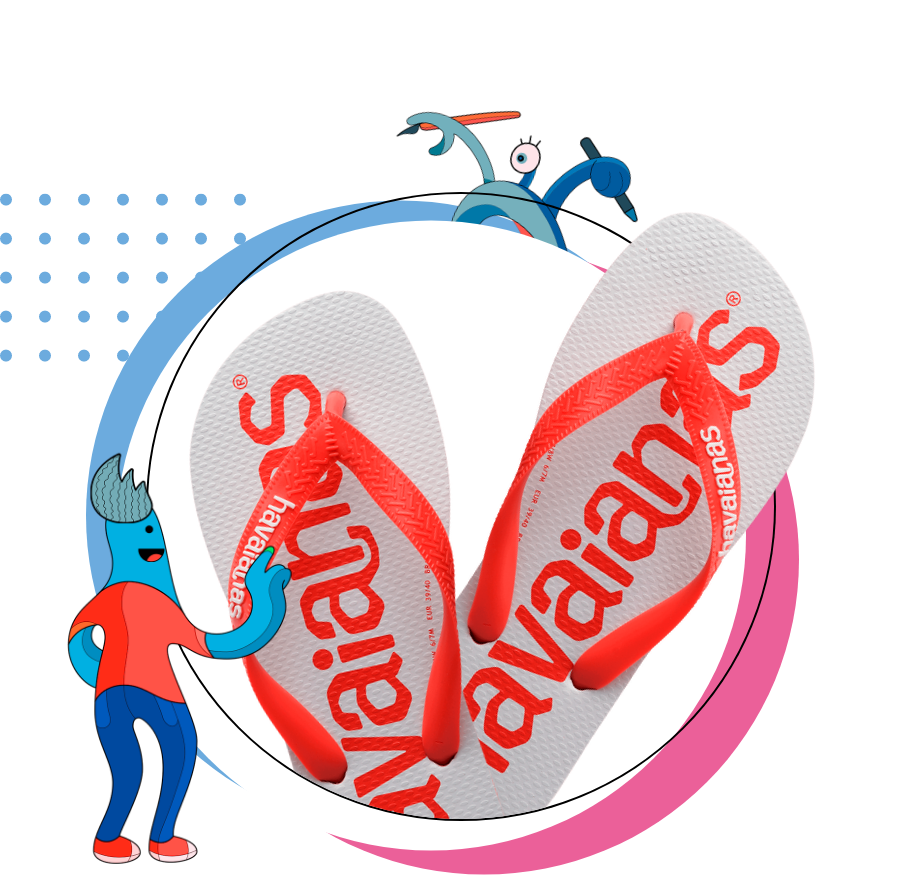
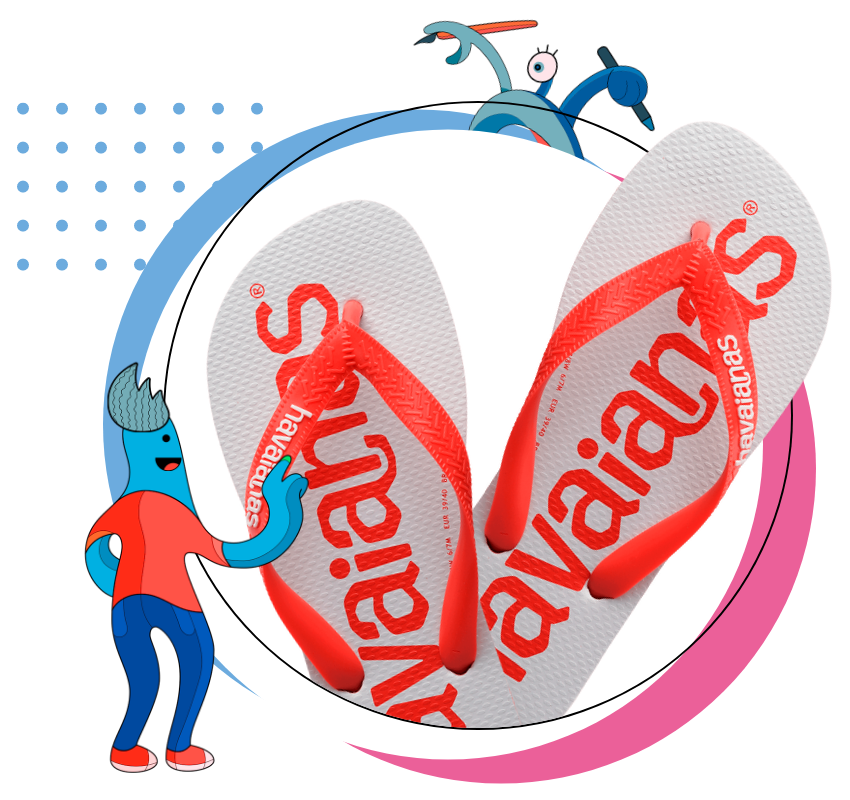
1800+ feito ok por enquanto

diff --git a/src/styles/index.module.css b/src/styles/index.module.css
@@ -7685,8 +7685,10 @@
 }
 
 .ceaNewsBullet {
-  top: 18px;
-  left: -15px;
+  top: 25px;
+  left: -25px;
+  width: 15px;
+  height: 15px;
 }
 
 .havaianasNewsTitle {
@@ -7704,8 +7706,10 @@
 }
 
 .havaianasNewsBullet {
-  top: 18px;
-  left: -15px;
+  top: 25px;
+  left: -25px;
+  width: 15px;
+  height: 15px;
 }
 
 .play {
@@ -9576,61 +9580,125 @@
   margin: -3px 50px 0 0;
 }
 
-.carPicture {
-  background-image: url(../assets/desktop_l/tiggo.png);
-  width: 1000px;
-  height: 986px;
-  margin: -100px 0 0 -930px;
+.ceaPicture {
+  background-image: url(../assets/desktop_l/cea.png);
+  width: 850px;
+  height: 771px;
+  margin: 0px 0 20px -900px;
 }
 
-.tagText {
+.havaianasPicture {
+  background-image: url(../assets/desktop_l/havaianas.png);
+  width: 850px;
+  height: 800px;
+  margin: -20px 0 20px -934px;
+}
+
+.ceaTagText {
+  font-family: PoppinsBold;
   font-size: 20px;
   line-height: 30px;
-  left: 0px;
-  top: 0px;
   position: relative;
-  margin: -820px 0 0 160px;
-  font-size: 20px;
-  line-height: 30px;
+  margin: -700px 0 0 280px;
+  z-index: 1;
 }
 
-.tagLine {
-  width: 78px;
+.ceaTagLine {
+  background-color: #6CABDE;
+  width: 220px;
   height: 10px;
-  left: 0px;
-  top: 0px;
   position: relative;
-  margin: -13px 0 0 155px;
+  margin: -11px 0 0 270px;
+  z-index: 0;
 }
 
-.newsTitle {
-  width: 790px;
-  margin: -750px 0 0 920px;
-  font-size: 60px;
+.havaianasTagText {
+  font-family: PoppinsBold;
+  font-size: 20px;
+  line-height: 30px;
+  position: relative;
+  margin: -709px 0 0 345px;
+  z-index: 1;
+}
+
+.havaianasTagLine {
+  background-color: #6CABDE;
+  width: 280px;
+  height: 10px;
+  position: relative;
+  margin: -11px 0 0 335px;
+  z-index: 0;
+}
+
+.ceaCarouselBullets {
+  width: 60px;
+  height: 20px;
+  display: flex;
+  justify-content: space-between;
+  margin: 70px 0 50px 140px;
+}
+
+.havaianasCarouselBullets {
+  width: 60px;
+  height: 20px;
+  display: flex;
+  justify-content: space-between;
+  margin: 70px 0 49px 140px;
+}
+
+.blackBullet {
+  background-image: url(../assets/mobile/bulletblack.png);
+  width: 20px;
+  height: 20px;
+}
+
+.blueBullet {
+  background-image: url(../assets/mobile/bulletblue.png);
+  width: 20px;
+  height: 20px;
+  cursor: pointer;
+}
+
+.ceaNewsTitle {
+  width: 650px;
+  margin: -600px 0 0 750px;
   line-height: 60px;
+  font-size: 60px;
 }
 
-.newsBullet {
+.ceaNewsText {
+  width: 500px;
+  margin: 25px 0 0 590px;
+  line-height: 27px;
+  font-size: 20px;
+}
+
+.ceaNewsBullet {
+  top: 25px;
+  left: -25px;
   width: 15px;
   height: 15px;
-  transform: scale(1);
-  top: 16px;
-  left: -25px;
 }
 
-.newsText {
-  width: 510px;
-  margin: 50px 0 0 600px;
-  transform: scale(1);
+.havaianasNewsTitle {
+  width: 650px;
+  margin: -610px 0 0 750px;
+  line-height: 60px;
+  font-size: 60px;
+}
+
+.havaianasNewsText {
+  width: 610px;
+  margin: 25px 0 0 710px;
+  line-height: 27px;
   font-size: 20px;
 }
 
-.carouselBullets {
-  transform: scale(1.06) rotate(270deg);
-  position: relative;
-  right: 0px;
-  top: 0px;
-  margin: -330px 0 0 1690px;
+.havaianasNewsBullet {
+  top: 25px;
+  left: -25px;
+  width: 15px;
+  height: 15px;
 }
 
 .play {
@@ -9684,7 +9752,7 @@
 /******* ABOUT *******/
 
 .about {
-  margin-top: 700px;
+  margin-top: 200px;
 }
 
 .aboutPoint {
@@ -9714,7 +9782,7 @@
   height: 1025px;
   transform: scale(0.9);
   position: absolute;
-  top: 900px;
+  top: 830px;
   right: 50px;
 }
 
@@ -9778,7 +9846,7 @@
   width: 1000px;
   height: 775px;
   position: absolute;
-  top: 1920px;
+  top: 1800px;
   left: 220px;
 }
 
@@ -9796,7 +9864,7 @@
   width: 1043px;
   height: 650px;
   right: 0px;
-  top: 2000px;
+  top: 1890px;
   padding-top: 10px;
   transform: scale(1);
 }
@@ -9884,7 +9952,7 @@
   width: 603px;
   height: 603px;
   position: absolute;
-  top: 2300px;
+  top: 2120px;
   left: 275px;
 }
 
@@ -10330,7 +10398,7 @@
   width: 421px;
   height: 195px;
   position: absolute;
-  top: 5020px;
+  top: 4950px;
   left: 20px;
 }
 
@@ -10431,7 +10499,7 @@
 }
 
 .hwdWhiteBg {
-  top: 6110px;
+  top: 6030px;
   width: 340px;
   transform: scale(1.2);
 }
@@ -10448,7 +10516,7 @@
 
 .previousWorks {
   height: 1480px;
-  top: 6230px;
+  top: 6150px;
 }
 
 .pwArt {
@@ -10962,7 +11030,7 @@
   line-height: 62px;
   width: 500px;
   position: absolute;
-  top: 9150px;
+  top: 9080px;
   left: 180px;
 }
 
